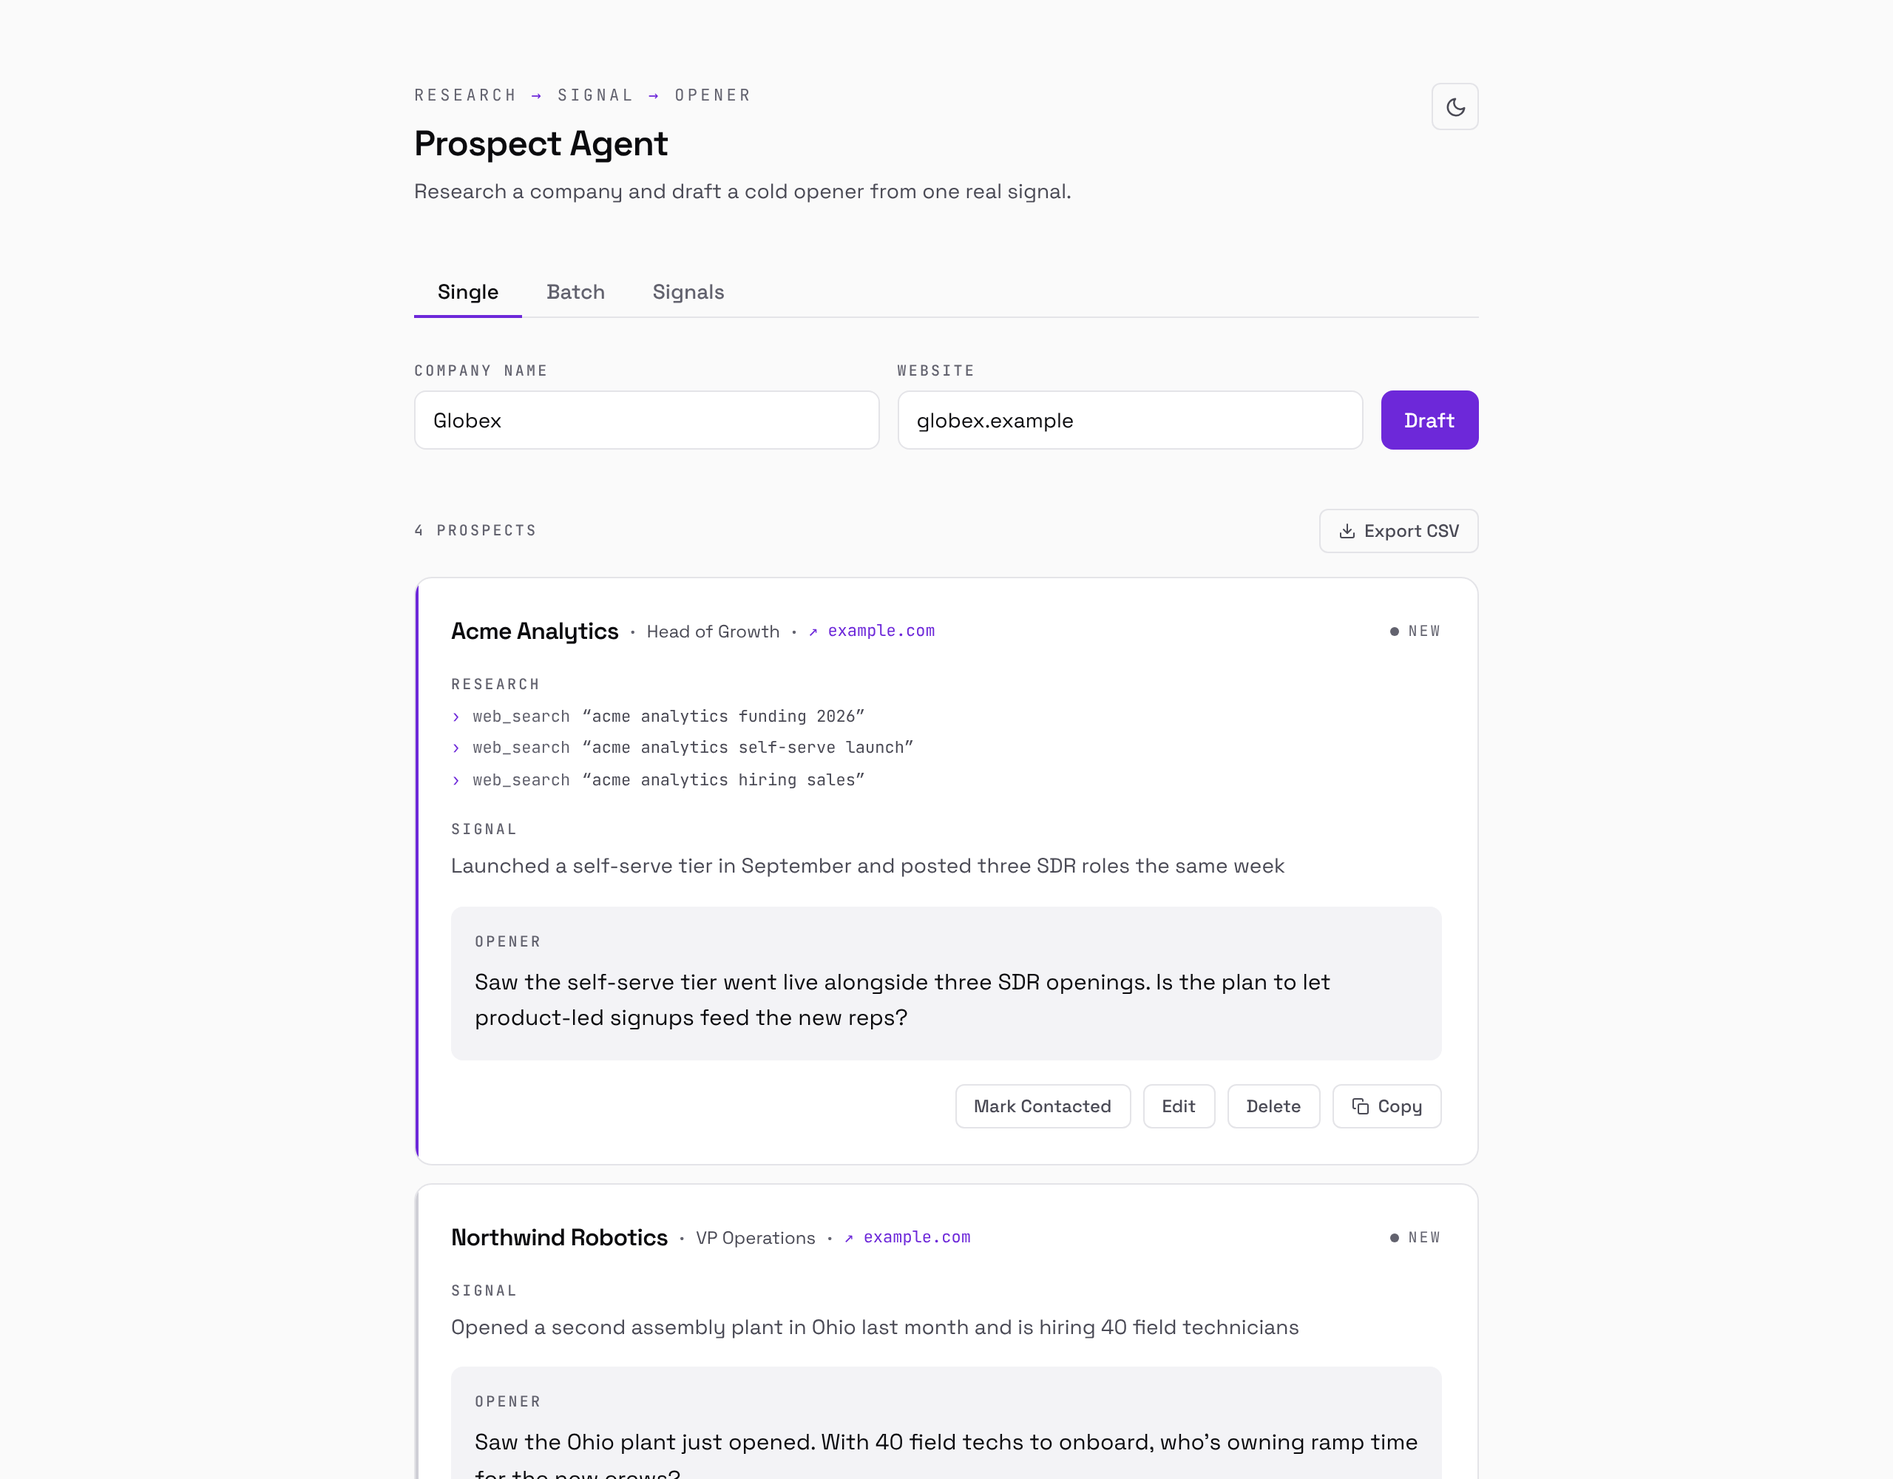
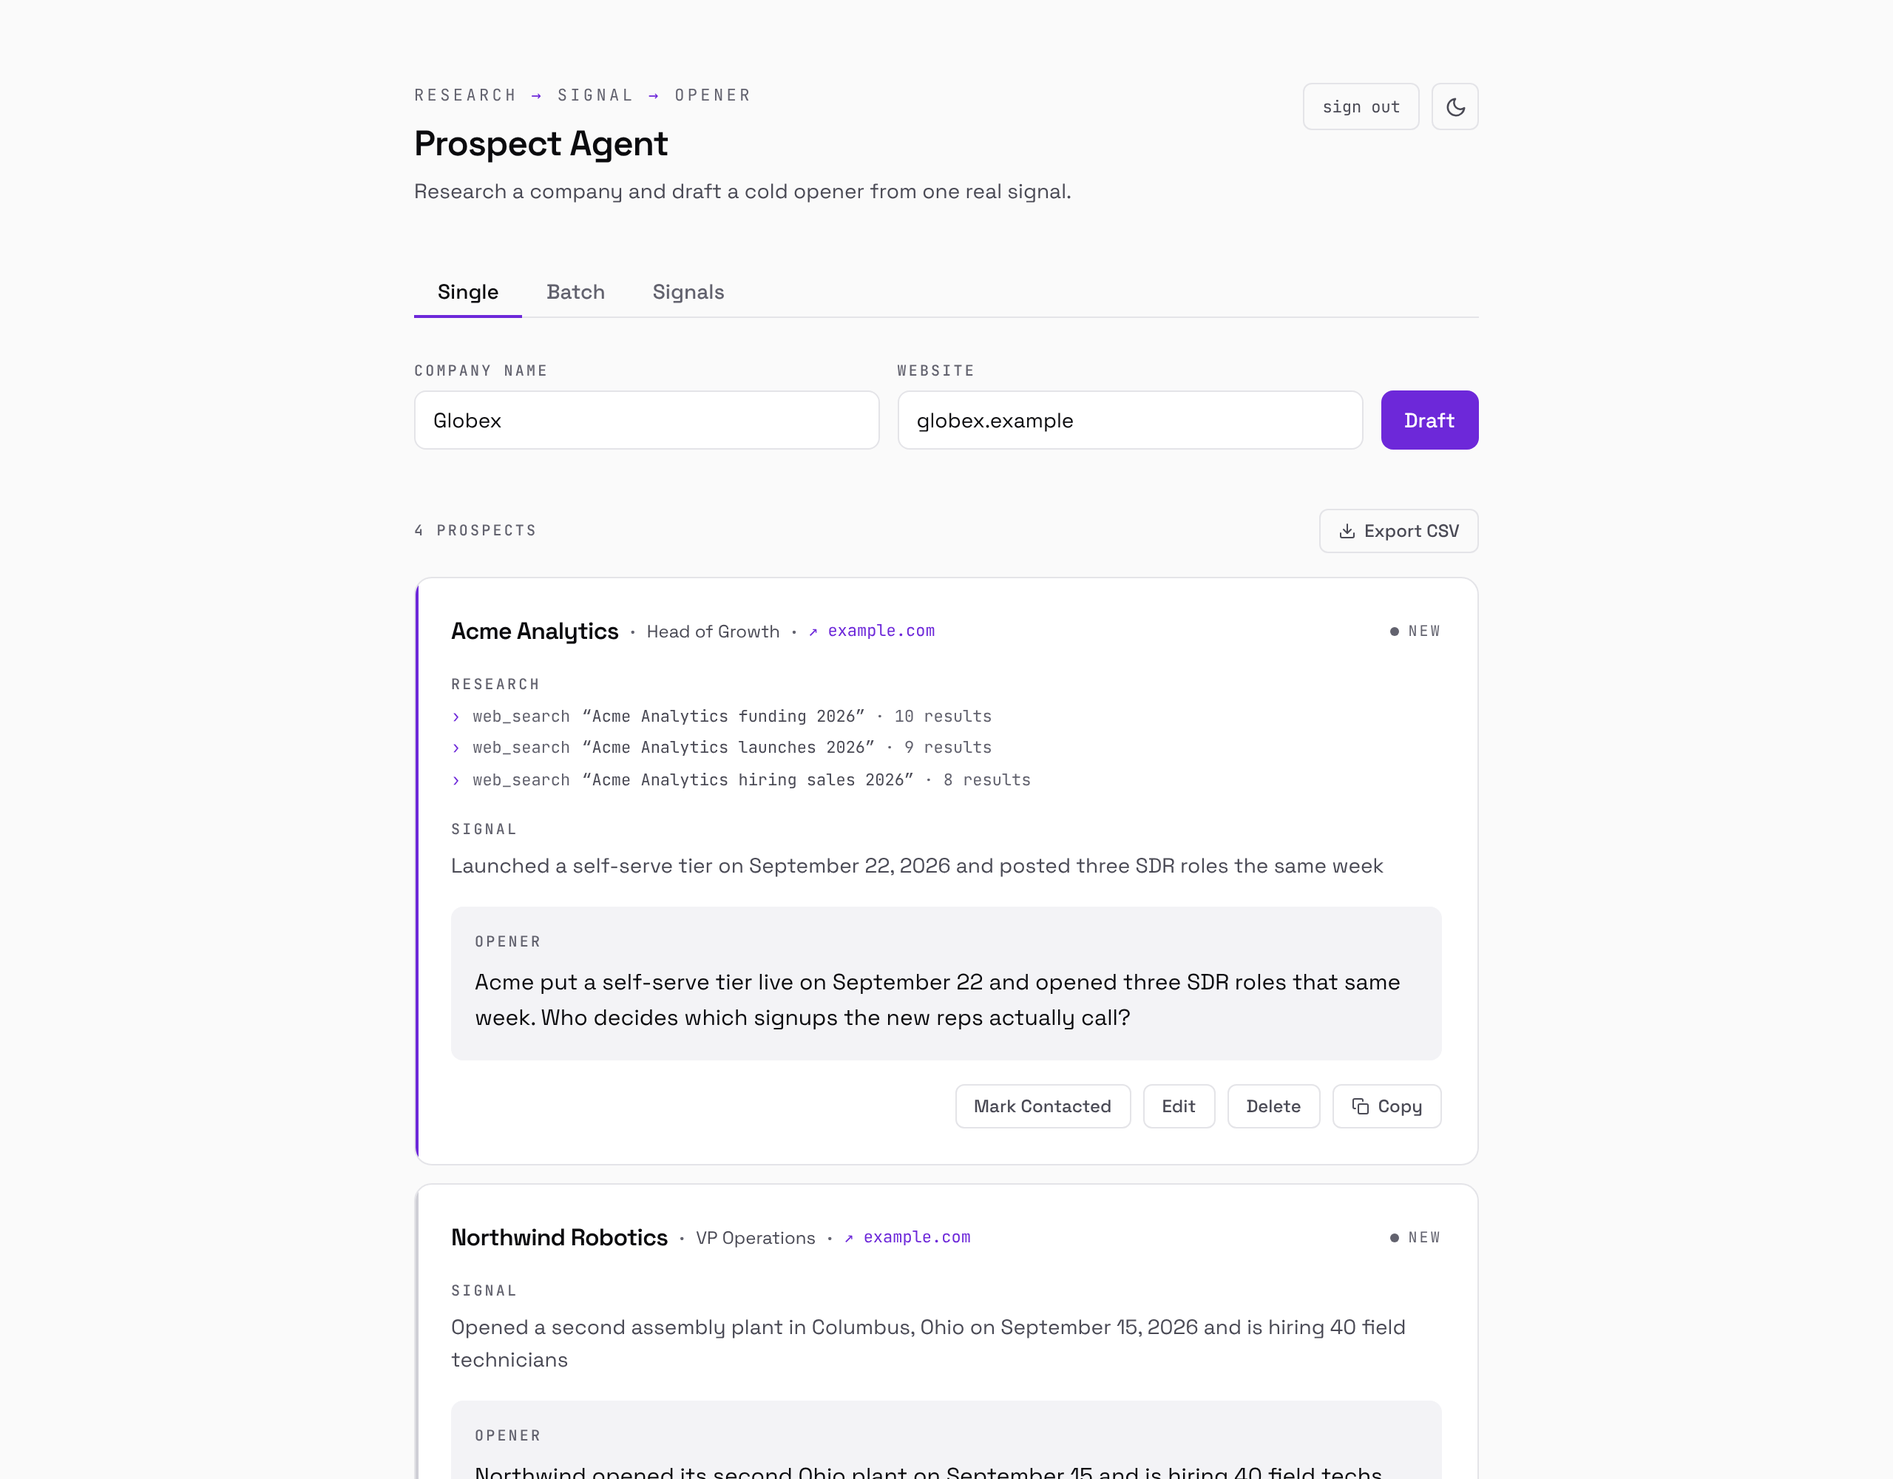
README: document everything from the October 2026 work; new screenshots
README:
- How the research works: model and effort, the basic web search tool
  and why it replaced web_search_20260209 (with the side-by-side
  results), today's date, how the signal is picked (recency first, one
  role) and the opener rules (absolute dates, no implication sentence,
  never telling the reader what their job has become).
- Features: elapsed counter, "×2" and "via code" in the trace, the
  signals-table search summary, hostname source links, sign-in.
- New Sign-in section (proxy, form post, constant-time check, 400ms
  delay, cookie), /api/login and /api/logout in the routes table.
- Deploying: per-environment Vercel vars, redeploy after a var change,
  auto-deploy from master. New Troubleshooting: Supabase free-tier pause
  behind "This page couldn't load", reading a failed search.
- Tests list per file, including searchTrace.test.ts.
- Changelog for PRs #2-#15.

Screenshots regenerated with fictional data against the current UI
(result counts in the trace, sign out button), openers rewritten to
follow the current rules, plus a sign-in page screenshot.

Signals table: a long source hostname ("markets.financialcontent.com",
seen on a real run) was whitespace-nowrap and pushed the table past the
page width. SourceLink now allows a break after each dot, the arrow
stays attached, the Source column gets a 9rem minimum and the Signal
column's minimum goes from 16rem to 14rem. Measured at 1280px: the
table fits (718 of 718px) with that hostname.
[…]

diff --git a/app/draft-form.tsx b/app/draft-form.tsx
@@ -1,6 +1,6 @@
 "use client";
 
-import { useEffect, useState } from "react";
+import { Fragment, useEffect, useState } from "react";
 import { isHttpUrl, sourceLabel } from "@/lib/url";
 import { parseCompanyLines } from "@/lib/parseLines";
 import { groupRepeatedSearches, type SearchTrace } from "@/lib/searchTrace";
@@ -183,6 +183,9 @@ function ResearchTrace({
 }
 
 function SourceLink({ href }: { href: string }) {
+  // A <wbr> after each dot lets a long hostname wrap at a dot in a narrow
+  // column ("markets." / "financialcontent.com") instead of mid-word.
+  const parts = sourceLabel(href).split(".");
   return (
     <a
       href={href}
@@ -190,7 +193,13 @@ function SourceLink({ href }: { href: string }) {
       rel="noopener noreferrer"
       className="font-mono text-[11px] text-accent underline-offset-2 transition-all duration-200 hover:underline"
     >
-      ↗ {sourceLabel(href)}
+      ↗{"\u00a0"}
+      {parts.map((part, i) => (
+        <Fragment key={i}>
+          {part}
+          {i < parts.length - 1 && <>.<wbr /></>}
+        </Fragment>
+      ))}
     </a>
   );
 }
@@ -945,7 +954,7 @@ export default function DraftForm({
                           {result.scoreReason}
                         </p>
                       </td>
-                      <td className={`${tdClass} min-w-[16rem] max-w-sm text-muted`}>
+                      <td className={`${tdClass} min-w-[14rem] max-w-sm text-muted`}>
                         <p className="leading-relaxed">{result.signal}</p>
                         {result.searches && result.searches.length > 0 && (
                           <details className="group mt-2">
@@ -968,11 +977,11 @@ export default function DraftForm({
                       {/* Roles can come back long ("VP of Partnerships / Alliances (or ...)"),
                           so let them wrap instead of starving the Signal column. */}
                       <td className={`${tdClass} min-w-[8rem] max-w-[12rem] text-muted`}>{result.targetRole}</td>
-                      <td className={tdClass}>
+                      {/* Long hostnames ("markets.financialcontent.com") wrap at
+                          a dot instead of pushing the table past the page width. */}
+                      <td className={`${tdClass} min-w-[9rem]`}>
                         {result.signalSource && isHttpUrl(result.signalSource) ? (
-                          <span className="whitespace-nowrap">
-                            <SourceLink href={result.signalSource} />
-                          </span>
+                          <SourceLink href={result.signalSource} />
                         ) : (
                           <span className="text-subtle">—</span>
                         )}

diff --git a/README.md b/README.md
@@ -18,19 +18,83 @@ without drafting an opener, for prioritizing who to reach out to first.
 Features:
 
 - **Draft** — single company or a batch (one per line), each row with its
-  own loading/retry state.
+  own loading/retry state and a live elapsed-seconds counter while the
+  research runs.
 - **Signals** — rank a list of companies by signal strength, no opener.
 - **Research trace** — each fresh draft or signal shows the web searches
-  the agent actually ran and how each came back (result count, or the
-  error code in red), so a rep can see what the signal is based on.
-  The trace isn't stored; saved prospects show their source link instead.
+  the agent actually ran and how each came back: the result count, or the
+  error code in red. A query run twice in a row shows once with "×2". In
+  the signals table the trace is folded into a "N web searches · M failed"
+  line you can expand. The trace isn't stored; saved prospects show their
+  source link instead.
+- **Source links** — shown as the hostname (`techcrunch.com`), and only
+  when the URL is `http(s)`.
 - **CSV export** — download batch/signal results as `prospects-<date>.csv`.
 - **Saved prospects** — every draft is stored in Postgres; the list loads
   25 at a time ("load more", cursor-paginated) and each prospect can be
   edited (status `new` / `contacted` / `replied`, company, website,
   signal, source, opener) or deleted.
+- **Sign-in** — a sign-in page gates the whole app (UI + API) once
+  credentials are set, with a "sign out" button in the header. See
+  [Sign-in](#sign-in).
 - **Light / dark theme** — dark by default; the toggle in the header
   remembers your choice in `localStorage`.
+
+## How the research works
+
+Each company is one call to the Claude API (`lib/research.ts`):
+
+- **Model:** `claude-sonnet-5-5` with `effort: "medium"` and
+  `max_tokens: 16000`. Sonnet 5.5 thinks by default and thinking counts
+  toward `max_tokens`, so the cap leaves room for thinking plus the JSON
+  reply.
+- **Web search:** the basic web search tool (`web_search_20250305`), at
+  most 5 searches per company. In practice a company takes 2–3 searches
+  and under 20 seconds.
+- **Today's date** goes at the top of every request, so "recent" is judged
+  against the real date, not the model's idea of what year it is.
+- **Refusal fallback:** if Sonnet 5.5 declines a company, the API retries it
+  on Anthropic's recommended substitute model inside the same call (see
+  [Notes](#notes)).
+
+Why the basic search tool: the newer `web_search_20260209` filters results
+through its own code execution before the model sees them. In side-by-side
+runs (October 2026) it ran the same query twice in a row, and on one
+company it hid recent news that its own searches had returned (the model
+said "only one search returned usable results" for searches with 9–10 hits
+each). The basic tool hands the model the results directly: it found the
+recent news every run, never repeated a query, and was about 2.5× faster
+(under 20s instead of about 50s). To compare again, change `type` in
+`WEB_SEARCH_TOOL` in `lib/research.ts`; the research trace then marks those
+searches "via code".
+
+How the agent picks the signal (both modes):
+
+- Each search looks for a different kind of news (funding, leadership
+  changes, launches or partnerships), and no query is run twice.
+- **Recency comes first.** Among facts from the last 6 months it picks the
+  strongest buying trigger; an older fact is used only when nothing recent
+  turned up. A strong trigger from 8 months ago loses to a decent one from
+  last month.
+- **One target role**, as a single title: no slashes, no "or", no
+  alternatives in parentheses.
+
+How the opener is written (draft mode; the full rules are the `SYSTEM`
+prompt in `lib/research.ts`):
+
+- Opens with the fact, stated plainly. No "I saw", no flattery, no pitch,
+  no meeting ask. Ends on one specific question about what might be
+  breaking.
+- **Absolute dates** ("on September 21"), never relative ones ("last
+  week"): drafts are saved and may be sent days later. A fact older than
+  6 months gets its month and year ("in November 2025").
+- No sentence explaining what the signal implies; the reader knows their
+  own business.
+- **Never tells the reader what their own job has become** (no "so you're
+  just COO now"). For a role change it says who took or left which job,
+  then asks the question.
+- Never invents a fact: if nothing specific turns up, the signal says so
+  and the opener stays plain.
 
 ## API routes
 
@@ -41,14 +105,17 @@ Features:
 | `/api/prospects` | GET | List saved prospects (`?cursor=` for the next page) |
 | `/api/prospects/[id]` | PATCH | Update any subset of a prospect's fields |
 | `/api/prospects/[id]` | DELETE | Delete a prospect |
+| `/api/login` | POST | Sign in (form post from `/login`); sets the session cookie |
+| `/api/logout` | POST | Sign out; clears the session cookie |
 
 ## Stack
 
-- Next.js (App Router) + TypeScript, Tailwind CSS (colors are CSS-variable
-  tokens in `app/globals.css`, one set per theme)
+- Next.js 16 (App Router) + TypeScript, Tailwind CSS (colors are
+  CSS-variable tokens in `app/globals.css`, one set per theme)
 - Space Grotesk + JetBrains Mono via `next/font`
 - Prisma + PostgreSQL (Supabase)
-- Anthropic SDK (`claude-sonnet-5-5`, web search tool)
+- Anthropic SDK (`claude-sonnet-5-5` on the beta Messages endpoint, web
+  search tool `web_search_20250305`)
 - Zod for validating the model's JSON output
 
 ## Setup
@@ -108,30 +175,52 @@ Features:
 ## Tests
 
 Unit tests cover the parts of the app that are pure logic and prone to
-silent bugs: cursor pagination (`lib/prospects.test.ts`), the model's
-JSON-extraction + Zod validation pipeline, mocked against the Anthropic
-SDK so no API key or network call is needed (`lib/research.test.ts`),
-batch/signal line parsing and dedup (`lib/parseLines.test.ts`), the
-`signalSource` link-safety check (`lib/url.test.ts`), and sign-in session
-tokens (`lib/session.test.ts`). They run in CI on
-every push and PR.
+silent bugs:
+
+- `lib/research.test.ts` — the model's JSON extraction + Zod validation,
+  the dated user message, reading each web search's query, result count,
+  error code and "via code" flag, and the refusal fallback. Mocked against
+  the Anthropic SDK, so no API key or network call is needed.
+- `lib/searchTrace.test.ts` — collapsing back-to-back repeated searches.
+- `lib/prospects.test.ts` — cursor pagination.
+- `lib/parseLines.test.ts` — batch/signal line parsing and dedup.
+- `lib/url.test.ts` — the `signalSource` link-safety check and hostname
+  label.
+- `lib/session.test.ts` — sign-in session tokens.
+
+They run in CI on every push and PR, after lint and typecheck.
 
 Out of scope for now: the API route handlers themselves (`app/api/**`)
 aren't covered by automated tests — they were verified manually against a
 real Postgres instance during development. Adding real route/integration
 tests would need a test database wired into CI.
 
+## Sign-in
+
+<img src="docs/screenshots/login-dark.png" alt="Sign-in page" width="60%" />
+
+- Turned on by setting both `APP_BASIC_AUTH_USER` and
+  `APP_BASIC_AUTH_PASSWORD`. With either one unset, the app is open and
+  `/login` redirects home.
+- Enforced by `proxy.ts` (Next.js 16's replacement for `middleware.ts`).
+  Signed-out page requests redirect to `/login`; API requests get a 401.
+- `/login` is a plain HTML form that posts to `/api/login`, so it works
+  without JavaScript. Both fields are checked in constant time, and a
+  wrong attempt waits 400ms before redirecting back with an error.
+- A successful sign-in sets an HttpOnly, SameSite=Lax session cookie: a
+  stateless HMAC-signed token valid for 30 days (`lib/session.ts`). The
+  signing key comes from the credentials, so changing either var signs
+  everyone out.
+- To open the app again, remove both vars and redeploy.
+
 ## Deploying (Vercel)
 
 - Mirror every var from `.env.local` into the Vercel project's environment
   variables — `DATABASE_URL`, `DIRECT_URL`, `ANTHROPIC_API_KEY`,
-  `APP_BASIC_AUTH_USER`, `APP_BASIC_AUTH_PASSWORD`.
-- Sign-in is enforced by `proxy.ts` (Next.js 16's replacement for
-  `middleware.ts`) once both `APP_BASIC_AUTH_*` vars are set — no extra
-  Vercel config needed. Signed-out page requests redirect to `/login`;
-  API requests get a 401. A successful sign-in sets an HttpOnly session
-  cookie (HMAC-signed, 30 days; see `lib/session.ts`). Changing either
-  var signs everyone out. Remove both vars and redeploy to open the app.
+  `APP_BASIC_AUTH_USER`, `APP_BASIC_AUTH_PASSWORD`. Vercel stores vars per
+  environment, so tick both Production and Preview if you use preview
+  deploys. A changed var only takes effect after a redeploy.
+- Merging to `master` deploys to production automatically.
 - The build script runs `prisma generate` before `next build`. Vercel
   caches `node_modules`, and Prisma refuses to start on Vercel when its
   client was only generated by the install step, so every database read
@@ -149,6 +238,18 @@ tests would need a test database wired into CI.
 - A research call can run up to 5 web searches per company; the API
   routes set `maxDuration = 60` to give it room.
 
+### Troubleshooting
+
+- **"This page couldn't load" / a 500 on every page.** The home page
+  reads the database on every load, so this usually means the database is
+  unreachable. Supabase pauses free-tier projects after about a week
+  without activity: open the project in the Supabase dashboard and click
+  **Restore project**, then reload. (The other cause, a Prisma client not
+  generated during the build, is handled by the build script above.)
+- **A draft says nothing recent turned up.** Check its research trace or
+  the `[research]` log line: a red error code means the search itself
+  failed (e.g. `too_many_requests`), not that there was no news.
+
 ## Notes
 
 - Research calls go through the beta Messages endpoint with server-side
@@ -157,9 +258,55 @@ tests would need a test database wired into CI.
   recommended substitute model in the same call. Only some refusal
   categories are retried, so a decline can still surface as an error.
   Server-side fallback is Claude API only (not Bedrock/Vertex/Foundry).
-
 - The `Prospect` table is intentionally a single flat table (see the
   comment in `prisma/schema.prisma`) — resist normalizing it for v1.
 - `signalSource` is whatever URL the model returns from its research; it's
   only rendered as a clickable link when it parses as `http(s)` (see
   `isHttpUrl` in `lib/url.ts`, used by `app/draft-form.tsx`).
+- `AGENTS.md` and `CLAUDE.md` are written by `next dev` (Next.js 16's
+  rules file for AI coding agents) and committed so the working tree stays
+  clean.
+
+## Changelog
+
+### October 2026
+
+- **Model:** research moved to `claude-sonnet-5-5` with explicit effort
+  and room for thinking, and a refusal now shows its own error
+  ([#3](https://github.com/RedOctober7/prospect-agent/pull/3)). Added
+  the server-side refusal fallback
+  ([#4](https://github.com/RedOctober7/prospect-agent/pull/4)).
+- **UI:** light/dark theme with WCAG AA contrast, new fonts, the research
+  trace, hostname source links, the elapsed counter, a better mobile
+  layout, and README screenshots
+  ([#5](https://github.com/RedOctober7/prospect-agent/pull/5)). Long target
+  roles wrap in the signals table
+  ([#9](https://github.com/RedOctober7/prospect-agent/pull/9)), and so do
+  long source hostnames.
+- **Deploy fixes:** `prisma generate` runs in the build, which fixed the
+  500 on Vercel ([#6](https://github.com/RedOctober7/prospect-agent/pull/6)).
+  Install scripts are approved via `allowScripts` for npm 12
+  ([#7](https://github.com/RedOctober7/prospect-agent/pull/7)).
+- **Sign-in:** a styled sign-in page with a session cookie and sign out,
+  replacing the browser's Basic Auth prompt
+  ([#8](https://github.com/RedOctober7/prospect-agent/pull/8)).
+- **Research quality**, tuned on real runs:
+  - The model gets today's date, so it stopped drafting on year-old news
+    as if it were fresh ([#9](https://github.com/RedOctober7/prospect-agent/pull/9)).
+  - Varied searches, the strongest trigger, one role, absolute dates
+    ([#10](https://github.com/RedOctober7/prospect-agent/pull/10)).
+  - Each search's outcome in the trace and the server logs
+    ([#11](https://github.com/RedOctober7/prospect-agent/pull/11)).
+  - Up to 5 searches, with repeats shown once
+    ([#12](https://github.com/RedOctober7/prospect-agent/pull/12)).
+  - Recency before trigger strength
+    ([#13](https://github.com/RedOctober7/prospect-agent/pull/13)).
+  - The switch to the basic web search tool, which made runs about 2.5×
+    faster ([#14](https://github.com/RedOctober7/prospect-agent/pull/14),
+    [#15](https://github.com/RedOctober7/prospect-agent/pull/15)).
+  - Openers no longer tell the reader what their own job has become
+    ([#15](https://github.com/RedOctober7/prospect-agent/pull/15)).
+- **Docs:** README brought up to date
+  ([#2](https://github.com/RedOctober7/prospect-agent/pull/2)), and again
+  in this update: how the research works, sign-in, troubleshooting, new
+  screenshots.
